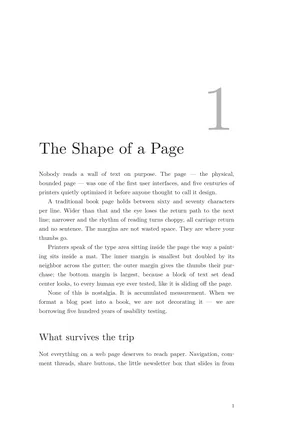
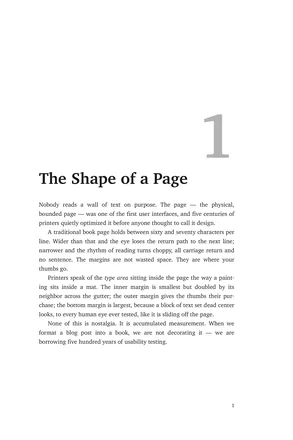
mydiss: match the reference's Fedra Serif with Charter
The reference book the class targets was set in Fedra Serif with oldstyle
figures (a commercial Typotheque face). Stand in Charter — a low-contrast
humanist book serif with oldstyle figures — via XCharter in the LaTeX
path and the macOS Charter system font / web fallbacks for CSS, far closer
to the reference than the class's Latin Modern default. Lower the chapter
numeral and carry the chapter number into the verso running head.

Also addresses review findings: the verso head no longer opens with a
stray en-space when a chapter is unnumbered, the recto head resets
section-title so it can't go stale across chapters, and the named-page
opener trick gains the @supports Chrome-fallback neutralizer tufte uses.

Changed region(s): [[0.1229, 0.1773, 0.7986, 0.8568], [0.1229, 0.325, 0.6451, 0.3545]]

diff --git a/bookformatter/themes/mydiss.py b/bookformatter/themes/mydiss.py
@@ -1,16 +1,23 @@
 """The mydiss theme, transcribed from Michael Ummels's mydiss dissertation
 class (mydiss.cls v1.6, an extbook derivative).
 
-The reference sets 9pt Latin Modern on a 1.25 line spread inside a
+Measured against the reference the class was written for — Ummels's own
+"Stochastic Multiplayer Games" (Pallas Publications, 2010) — set on a
 156 × 234 mm page with a narrow spine, a wide outer margin (the class's
-23 mm marginpar column) and a deep foot. Its signature is the chapter
-opener: a huge pale-grey numeral (96pt bold) set ragged right over a 24pt
-bold title, also ragged right. Section heads are upright \\Large roman,
-subsections italic; running heads carry the chapter title (verso) and
-section title (recto) in small italics with folios at the outer edge; the
-contents page uses a bullet leader rather than dots. Dissertation-only
-machinery (theorems, indexing, complexity classes, the optional Fedra
-fonts) is not part of the book design.
+23 mm marginpar column) and a deep foot, at 9pt on a 1.25 line spread.
+Its signature is the chapter opener: a huge pale-grey numeral (96pt bold)
+set ragged right over a 24pt bold title, also ragged right. Section heads
+are upright \\Large roman, subsections italic; running heads carry the
+chapter (verso) and section (recto) in small italics with folios at the
+outer edge; the contents page uses a bullet leader rather than dots.
+
+That reference was typeset with the class's `fedra` option — Peter Bilak's
+Fedra Serif B, with oldstyle figures throughout. Fedra is a commercial
+Typotheque face, so this theme stands in Charter (XCharter in the LaTeX
+path): a low-contrast humanist book serif with oldstyle figures that
+carries the reference's warmth far better than the class's Latin Modern
+default. Dissertation-only machinery (theorems, indexing, complexity
+classes) is not part of the book design.
 """
 
 from __future__ import annotations
@@ -21,7 +28,7 @@ from . import base
 
 NAME = "mydiss"
 LABEL = "Dissertation"
-BLURB = "Latin Modern, oversized grey chapter numerals"
+BLURB = "Charter, oversized grey chapter numerals"
 
 # The class loads extbook at 9pt (size9.clo sets an 11pt baseline) and
 # applies \setstretch{1.25}, spreading the baseline to about 13.75pt — a
@@ -32,7 +39,7 @@ DEFAULT_LINE_HEIGHT = "1.53"
 
 # Production guidance drawn strictly from the class's own settings
 # (mydiss.cls \geometry and \setstretch): the 156 × 234 mm page, the four
-# margins as \geometry gives them, and 9pt Latin Modern at the 1.25 spread.
+# margins as \geometry gives them, and 9pt Charter at the 1.25 spread.
 # The class prescribes nothing about paper stock or binding, so the note
 # says so rather than inventing numbers.
 PRINT_SPECS = {
@@ -41,7 +48,8 @@ PRINT_SPECS = {
         ("Interior", "156 × 234 mm (6.14 × 9.21 in); no bleed or crop marks"),
         ("Margins", "20.8 mm spine, 31.2 mm fore-edge (a wide outer margin), "
                     "20.2 mm head, 36.8 mm foot"),
-        ("Type", "9pt Latin Modern at about 13.75pt leading (1.25 line spread)"),
+        ("Type", "9pt Charter with oldstyle figures (standing in for the "
+                 "class's Fedra Serif) at about 13.75pt leading (1.25 line spread)"),
         ("Printing", "Two-sided (duplex); flip on the long edge"),
         ("Color", "Black or grayscale interior"),
     ),
@@ -56,12 +64,12 @@ PRINT_SPECS = {
     },
 }
 
-# The class typesets everything in Latin Modern (lmodern); prefer the
-# installed Latin Modern faces, then the nearest common serif / mono.
-SERIF_STACK = ('"Latin Modern Roman", "CMU Serif", "Latin Modern", '
-               '"Nimbus Roman", "Times New Roman", Times, serif')
-MONO_STACK = ('"Latin Modern Mono", "CMU Typewriter Text", "Nimbus Mono PS", '
-              'Consolas, "Liberation Mono", monospace')
+# Charter stands in for the reference's commercial Fedra Serif: a
+# low-contrast humanist book serif with oldstyle figures, on macOS as the
+# "Charter" system font, in TeX as XCharter, and common on the web.
+SERIF_STACK = ('Charter, "XCharter", "Bitstream Charter", "Charter BT", '
+               'Georgia, "Palatino Linotype", Palatino, serif')
+MONO_STACK = base.MONO_STACK
 
 # Overrides transcribed from the class's \titleformat directives: the
 # display chapter opener (a 96pt halfgray \fontseries{bx} numeral ragged
@@ -70,6 +78,9 @@ MONO_STACK = ('"Latin Modern Mono", "CMU Typewriter Text", "Nimbus Mono PS", '
 EXTRA = Template(
     """
 /* ---- mydiss overrides (after Michael Ummels's mydiss dissertation class) ---- */
+/* Oldstyle figures throughout, as the reference's Fedra Serif sets them. */
+body { font-variant-numeric: oldstyle-nums; }
+
 /* Chapter opener: titlesec [display] — a huge pale-grey numeral (96pt on
    a 9pt body) set ragged right over the title (24pt bold), also ragged
    right (\\raggedleft \\fontseries{bx}). */
@@ -115,14 +126,25 @@ hr::after { content: "\\2022"; letter-spacing: 0; }
 PRINT_EXTRA = Template(
     """
 /* ---- mydiss print furniture: italic outer heads, bullet-leader TOC ---- */
-/* The recto head carries the current section title. */
+/* The verso head carries the chapter (number + title), the recto the
+   current section title. */
+/* The chapter number carries its own trailing en-space, so an unnumbered
+   chapter (no .chapter-number element, e.g. --no-chapter-numbers) leaves
+   the string unset and the verso head opens flush on the title — the CSS
+   analogue of the preamble's \\ifthechapter guard. The chapter head also
+   clears section-title (on the same declaration, since a later string-set
+   on the element replaces rather than merges) so a chapter's pages before
+   its first h2 don't inherit the previous chapter's last section — matching
+   titleps clearing the section mark at \\chapter. */
+header.chapter-head .chapter-number { string-set: chapter-num content() "\\2002"; }
+header.chapter-head h1.chapter-title { string-set: chapter-title content(), section-title ""; }
 h2 { string-set: section-title content(); }
 
 @page { @bottom-center { content: none; } }
 @page :left {
   @top-center { content: none; }
   @top-left {
-    content: string(chapter-title, first-except);
+    content: string(chapter-num, first-except) string(chapter-title, first-except);
     font-family: $BODY_FONT;
     font-style: italic; font-variant: normal;
     font-size: 0.82em; letter-spacing: 0; text-align: left;
@@ -154,6 +176,13 @@ h2 { string-set: section-title content(); }
 }
 section.chapter { page: auto; }
 header.chapter-head { page: clean; }
+/* Chrome (>=131) honors named-page switching strictly and would break the
+   page after the opener head; it also can't render the string() furniture
+   this trick exists to hide. WeasyPrint drops @supports blocks wholesale,
+   so only Chrome sees this neutralizer and keeps its pagination intact. */
+@supports (page: auto) {
+  header.chapter-head { page: auto; }
+}
 
 /* Contents: a bullet leader before the folio (\\enskip\\textbullet\\enspace),
    no dot leaders. */
@@ -194,6 +223,6 @@ def params(font_size: str, line_height: str) -> dict:
         "INDENT": "1.5em",
         "PARA_EXTRA": "",
         "TITLE_EXTRA": "",
-        "CHAPTER_DROP": "0.7in",
+        "CHAPTER_DROP": "1.35in",
         "TITLE_DROP": "1.5in",
     }

diff --git a/tests/test_themes.py b/tests/test_themes.py
@@ -340,7 +340,7 @@ class MydissCssTests(unittest.TestCase):
         self.assertEqual(specs["title"], "Recommended mydiss print setup")
         guidance = " ".join(value for _, value in specs["items"])
         self.assertIn("156 × 234 mm", guidance)
-        self.assertIn("9pt Latin Modern", guidance)
+        self.assertIn("9pt Charter", guidance)
         # The class prescribes no stock/binding; the note says so.
         self.assertIn("prescribes no paper stock", specs["note"])
         self.assertNotIn("gsm", guidance + specs["note"])
@@ -358,11 +358,23 @@ class MydissCssTests(unittest.TestCase):
         self.assertIn("font-size: 10.67em;", css)
         self.assertIn("header.chapter-head { text-align: right; }", css)
 
+    def test_body_sets_charter_with_oldstyle_figures(self):
+        # Charter (with oldstyle figures) stands in for the reference's
+        # commercial Fedra Serif.
+        css = themes.epub_css(theme="mydiss")
+        self.assertIn("font-variant-numeric: oldstyle-nums;", css)
+        self.assertIn("Charter", css)
+
     def test_print_css_sets_italic_outer_heads_and_a_bullet_toc(self):
         css = themes.print_css(theme="mydiss", book_title="Field Notes")
-        # Chapter title verso, section title recto, both small italic...
+        # Chapter (number + title) verso, section title recto, small italic...
         self.assertIn("string-set: section-title content();", css)
-        self.assertIn("content: string(chapter-title, first-except);", css)
+        # The number carries its own trailing space (unnumbered chapters add
+        # nothing), and the head resets section-title so it can't go stale.
+        self.assertIn('string-set: chapter-num content() "\\2002";', css)
+        self.assertIn("string-set: chapter-title content(), section-title \"\";", css)
+        self.assertIn("content: string(chapter-num, first-except) "
+                      "string(chapter-title, first-except);", css)
         self.assertIn("content: string(section-title);", css)
         self.assertIn("font-style: italic;", css)
         # ...the theme block comes after the shared furniture it replaces...
@@ -381,6 +393,8 @@ class MydissCssTests(unittest.TestCase):
         self.assertIn("section.chapter { page: auto; }", css)
         clean = css.index("@page clean")
         self.assertIn("@bottom-right { content: counter(page)", css[clean:])
+        # The Chrome fallback neutralizer keeps named-page pagination intact.
+        self.assertIn("@supports (page: auto) {\n  header.chapter-head { page: auto; }\n}", css)
 
     def test_epub_css_restyles_without_paged_furniture(self):
         css = themes.epub_css(theme="mydiss")

diff --git a/bookformatter/latex.py b/bookformatter/latex.py
@@ -16,10 +16,11 @@ rather than imitated. Two document shapes:
   pdflatex as the template is.
 * theme "mydiss" transcribes Michael Ummels's mydiss dissertation class
   (an extbook derivative not on CTAN) into a self-contained preamble: 9pt
-  Latin Modern on extbook at a 1.25 spread, the class's titlesec display
-  chapter (a 96pt halfgray numeral over a bold title, both ragged right),
-  titleps italic outer running heads, and a titletoc bullet-leader
-  contents, compiled with pdflatex as the class is.
+  Charter (XCharter with oldstyle figures, standing in for the commercial
+  Fedra Serif the reference book was set in) on extbook at a 1.25 spread,
+  the class's titlesec display chapter (a 96pt halfgray numeral over a
+  bold title, both ragged right), titleps italic outer running heads, and
+  a titletoc bullet-leader contents, compiled with pdflatex as the class is.
 * every other theme emits a standard book-class document matched to the
   theme's page geometry, body size, leading, and nearest TeX Gyre face,
   compiled with lualatex so arbitrary web-ingested Unicode survives.
@@ -552,8 +553,10 @@ def _mydiss_preamble(theme, trim, font_size, line_height, chapter_start,
         % (class_pt, "openright" if chapter_start == "right" else "openany"),
         "\\usepackage[T1]{fontenc}",
         "\\usepackage[utf8]{inputenc}",
-        "\\usepackage{lmodern}",
-        "\\usepackage{textcomp}",
+        # Charter (XCharter) with oldstyle figures stands in for the
+        # reference's commercial Fedra Serif; a warm, low-contrast humanist
+        # book serif far closer to it than the class's Latin Modern default.
+        "\\usepackage[osf]{XCharter}",
     ]
     babel = _babel_line(language)
     if babel:

diff --git a/tests/test_latex.py b/tests/test_latex.py
@@ -182,7 +182,8 @@ class WriteLatexTests(unittest.TestCase):
         tex = render(theme="mydiss")
         self.assertTrue(tex.startswith("% !TEX program = pdflatex"))
         self.assertIn("\\documentclass[9pt,twoside,openright]{extbook}", tex)
-        self.assertIn("\\usepackage{lmodern}", tex)
+        # Charter (XCharter, oldstyle figures) stands in for Fedra Serif.
+        self.assertIn("\\usepackage[osf]{XCharter}", tex)
         # The class's page and 1.25 spread.
         self.assertIn("paperwidth=6.14173in,paperheight=9.2126in", tex)
         self.assertIn("\\setstretch{1.25}", tex)
